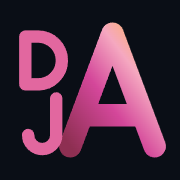
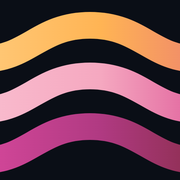
Replace the monogram with three spectral ribbons
The DJA monogram was legible but not lovely -- forcing three glyphs into
16 pixels constrained every other decision. Dropped the letters.

The mark is now three drifting bands, warm at the top and cooling
downward, echoing the carriers in the waterfall behind the site's title.
They run past the tile edge and are clipped, so it reads as a window onto
something continuous rather than a closed shape.

Chose three bands over four: the extra violet band was richer at 190px but
crowded below 32px, and two bands lost the spectral range entirely.

diff --git a/index.html b/index.html
@@ -568,21 +568,12 @@
 <nav id="nav" aria-label="Sections">
   <a class="who" href="#top">
     <svg viewBox="0 0 64 64" aria-hidden="true">
-      <defs>
-        <linearGradient id="navg" x1="0" y1="1" x2="1" y2="0">
-          <stop offset="0" stop-color="var(--wine)"/>
-          <stop offset=".42" stop-color="var(--plasma)"/>
-          <stop offset=".72" stop-color="var(--blush)"/>
-          <stop offset="1" stop-color="var(--ember)"/>
-        </linearGradient>
-      </defs>
-      <rect width="64" height="64" rx="14" fill="var(--deep)"/>
-      <g fill="none" stroke="url(#navg)" stroke-width="8" stroke-linecap="round" stroke-linejoin="round">
-        <path d="M25 52 L40 12 L55 52 M29.5 41 H50.5"/>
-      </g>
-      <g fill="none" stroke="var(--plasma)" stroke-width="4.4" stroke-linecap="round" stroke-linejoin="round">
-        <path d="M9 13 V30 M9 13 H13.5 A8.5 8.5 0 0 1 13.5 30 H9"/>
-        <path d="M20 35 V48 A5 5 0 0 1 10 48"/>
+      <defs><clipPath id="navc"><rect width="64" height="64" rx="14"/></clipPath></defs>
+      <rect width="64" height="64" rx="14" fill="#0A0E16"/>
+      <g clip-path="url(#navc)" fill="none" stroke-linecap="round" stroke-width="9.5">
+        <path d="M-6 21 C10 21 14 9 32 9 C50 9 54 21 70 21" stroke="var(--ember)"/>
+        <path d="M-6 39 C10 39 14 27 32 27 C50 27 54 39 70 39" stroke="var(--blush)"/>
+        <path d="M-6 57 C10 57 14 45 32 45 C50 45 54 57 70 57" stroke="var(--plasma)"/>
       </g>
     </svg>
     David Jeremie Anand
